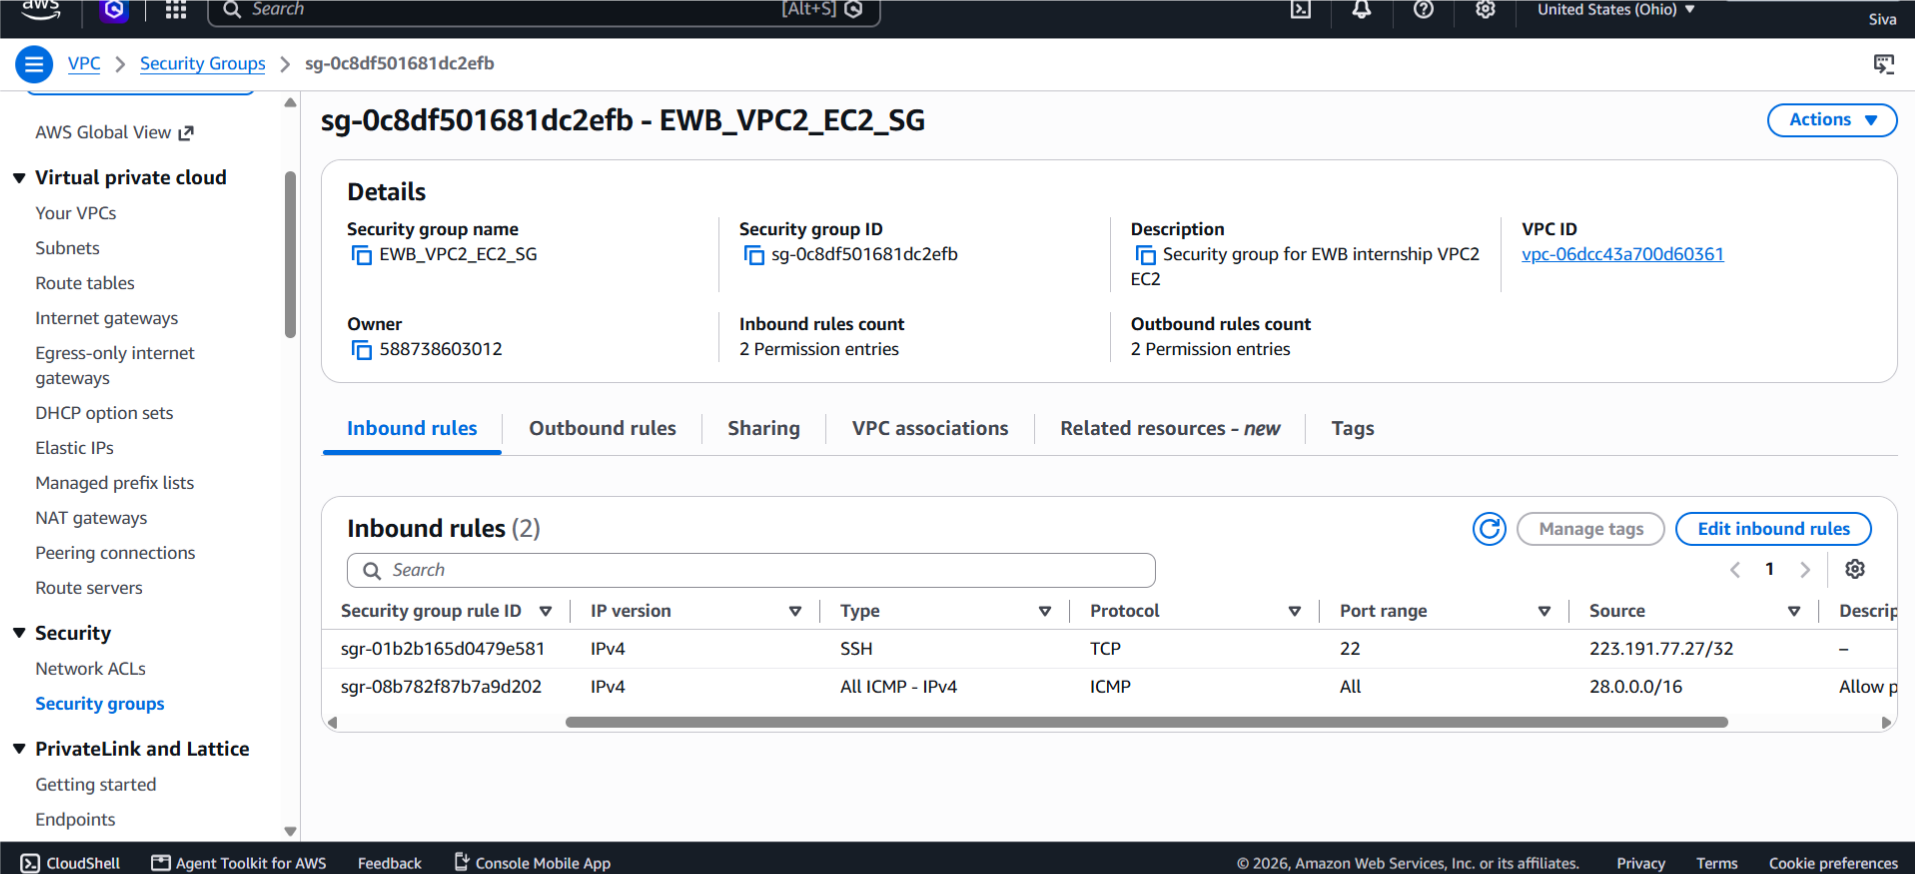
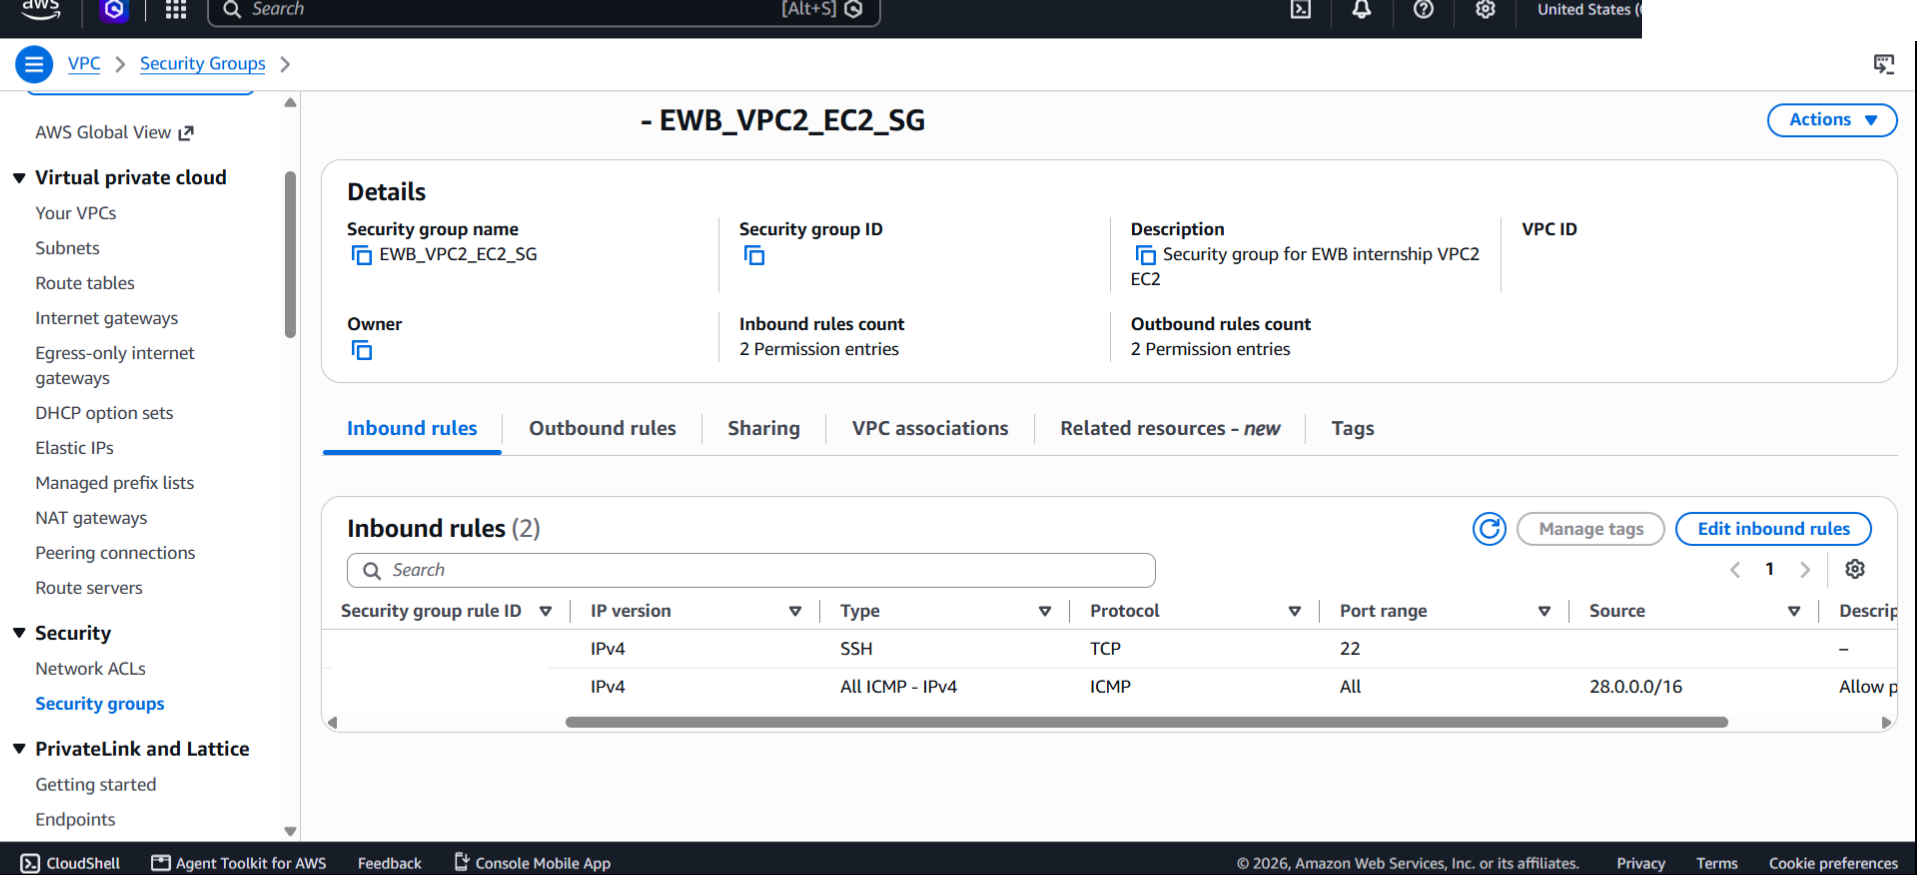
Fixed Evidence

diff --git a/README.md b/README.md
@@ -201,3 +201,11 @@ EWB-AWS-Internship/
 This project provided practical experience in connecting separate AWS VPCs through VPC peering. By configuring routes, security group rules and SSH access, I demonstrated private IP communication between EC2 instances and practised troubleshooting connectivity issues.
 
 The project strengthened my understanding of AWS networking fundamentals, routing, access control and cloud infrastructure validation.
+
+## 12. Evidence Screenshot Index
+
+The evidence screenshots below are provided in `03_Evidence_Screenshots/`. Screenshots 01–13 have been replaced with the redacted versions used in the project portfolio.
+
+- `14_Available_Before_Cleanup.png` — Original evidence showing the EC2 instances before cleanup.
+- `15_Cleanup_Evidence.png` — Manually redacted screenshot documenting the cleanup/termination process.
+
